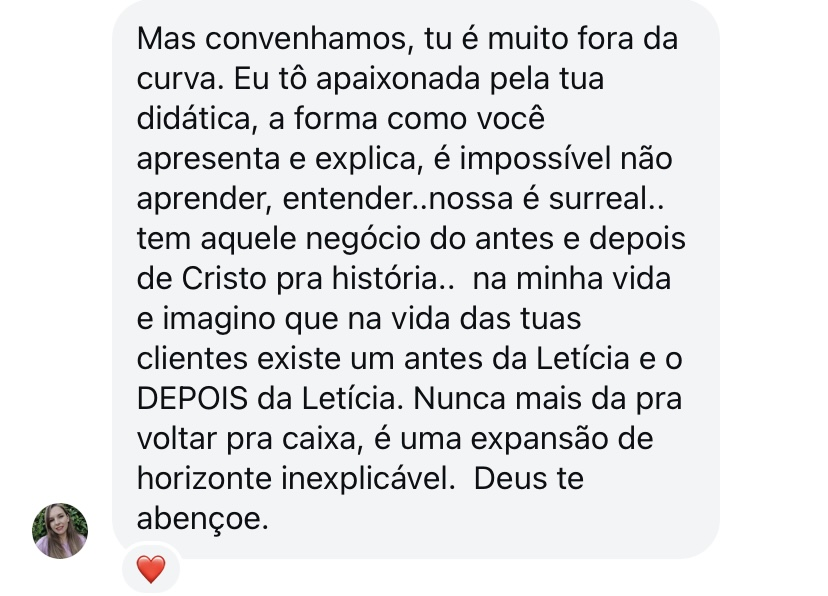
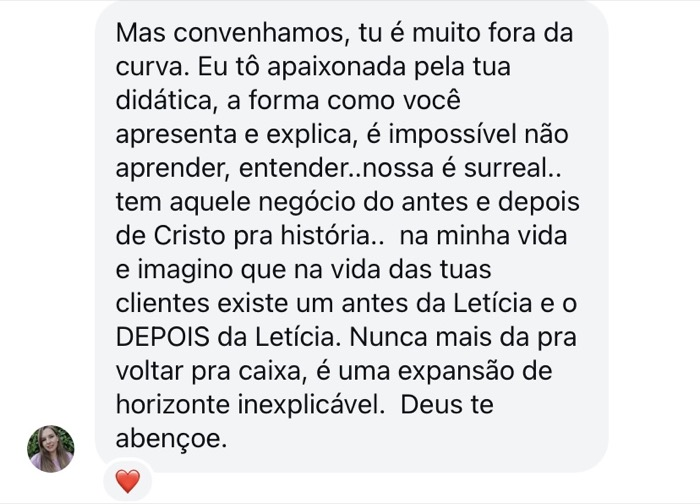
feat: optimize images by adding WebP versions and standardizing dimensions across assets

diff --git a/consultoria-scala/index.html b/consultoria-scala/index.html
@@ -778,7 +778,7 @@ h1 .hi{font-style:italic; color:var(--gold-lt); font-weight:400; white-space:now
 
     <div class="cases rv">
       <article class="case">
-        <img src="assets/antes-depois/jessica.jpg" alt="Jéssica antes e depois da Consultoria Scala" loading="lazy" width="1000" height="1000">
+        <img src="assets/antes-depois/jessica.jpg" alt="Jéssica antes e depois da Consultoria Scala" loading="lazy" width="700" height="700">
         <div class="case-body">
           <p class="case-name">Jéssica</p>
           <p class="case-role">Advogada · Empresária</p>
@@ -789,7 +789,7 @@ h1 .hi{font-style:italic; color:var(--gold-lt); font-weight:400; white-space:now
       </article>
 
       <article class="case">
-        <img src="assets/antes-depois/alessandra.jpg" alt="Alessandra antes e depois da Consultoria Scala" loading="lazy" width="1000" height="1000">
+        <img src="assets/antes-depois/alessandra.jpg" alt="Alessandra antes e depois da Consultoria Scala" loading="lazy" width="700" height="700">
         <div class="case-body">
           <p class="case-name">Alessandra Lopes</p>
           <p class="case-role">Estrategista de Conteúdo</p>
@@ -800,7 +800,7 @@ h1 .hi{font-style:italic; color:var(--gold-lt); font-weight:400; white-space:now
       </article>
 
       <article class="case">
-        <img src="assets/antes-depois/melina.jpg" srcset="assets/antes-depois/melina-700.jpg 700w, assets/antes-depois/melina.jpg 1000w" sizes="(min-width:960px) 340px, (min-width:600px) 460px, 92vw" alt="Melina antes e depois da Consultoria Scala" loading="lazy" width="1000" height="1000">
+        <img src="assets/antes-depois/melina.jpg" alt="Melina antes e depois da Consultoria Scala" loading="lazy" width="700" height="700">
         <div class="case-body">
           <p class="case-name">Melina</p>
           <p class="case-role">Mentora · Terapeuta</p>
@@ -815,14 +815,14 @@ h1 .hi{font-style:italic; color:var(--gold-lt); font-weight:400; white-space:now
       <p class="gal-title">Mensagens reais de quem já passou pelo processo</p>
 
       <div class="masonry">
-        <figure class="shot"><img src="assets/depoimentos/depo-10x-mais-caro.png" alt="Depoimento: depois da estratégia de imagem comecei a cobrar 10x mais caro" loading="lazy" width="1000" height="211"></figure>
-        <figure class="shot"><img src="assets/depoimentos/depo-porta-de-entrada.png" alt="Depoimento: a minha roupa foi a porta de entrada para iniciar uma relação de negócio" loading="lazy" width="987" height="168"></figure>
-        <figure class="shot"><img src="assets/depoimentos/depo-5x-mais-caro.png" alt="Depoimento: hoje eu cobro 5x mais pelo meu serviço" loading="lazy" width="1000" height="212"></figure>
-        <figure class="shot"><img src="assets/depoimentos/depo-68-looks.png" alt="Depoimento: montamos mais de 68 looks" loading="lazy" width="1000" height="214"></figure>
-        <figure class="shot"><img src="assets/depoimentos/depo-ta-poderosa.png" alt="Depoimento: cinco pessoas vieram me dizer que eu estava poderosa" loading="lazy" width="1000" height="237"></figure>
-        <figure class="shot"><img src="assets/depoimentos/depo-outra-pessoa.png" alt="Depoimento: eu me sinto outra pessoa" loading="lazy" width="987" height="168"></figure>
-        <figure class="shot"><img src="assets/depoimentos/depo-odiava-comprar.png" alt="Depoimento: fui da pessoa que odiava comprar roupas para a pessoa que ama roupas novas" loading="lazy" width="1000" height="151"></figure>
-        <figure class="shot tall"><img src="assets/depoimentos/depo-antes-e-depois-da-leticia.jpg" alt="Depoimento: existe um antes da Letícia e um depois da Letícia" loading="lazy" width="828" height="596"></figure>
+        <figure class="shot"><img src="assets/depoimentos/depo-10x-mais-caro.png" alt="Depoimento: depois da estratégia de imagem comecei a cobrar 10x mais caro" loading="lazy" width="700" height="147"></figure>
+        <figure class="shot"><img src="assets/depoimentos/depo-porta-de-entrada.png" alt="Depoimento: a minha roupa foi a porta de entrada para iniciar uma relação de negócio" loading="lazy" width="700" height="119"></figure>
+        <figure class="shot"><img src="assets/depoimentos/depo-5x-mais-caro.png" alt="Depoimento: hoje eu cobro 5x mais pelo meu serviço" loading="lazy" width="700" height="148"></figure>
+        <figure class="shot"><img src="assets/depoimentos/depo-68-looks.png" alt="Depoimento: montamos mais de 68 looks" loading="lazy" width="700" height="150"></figure>
+        <figure class="shot"><img src="assets/depoimentos/depo-ta-poderosa.png" alt="Depoimento: cinco pessoas vieram me dizer que eu estava poderosa" loading="lazy" width="700" height="166"></figure>
+        <figure class="shot"><img src="assets/depoimentos/depo-outra-pessoa.png" alt="Depoimento: eu me sinto outra pessoa" loading="lazy" width="700" height="119"></figure>
+        <figure class="shot"><img src="assets/depoimentos/depo-odiava-comprar.png" alt="Depoimento: fui da pessoa que odiava comprar roupas para a pessoa que ama roupas novas" loading="lazy" width="700" height="105"></figure>
+        <figure class="shot tall"><img src="assets/depoimentos/depo-antes-e-depois-da-leticia.jpg" alt="Depoimento: existe um antes da Letícia e um depois da Letícia" loading="lazy" width="700" height="504"></figure>
       </div>
 
       <p class="gal-note">Clique em qualquer mensagem para ampliar.</p>
